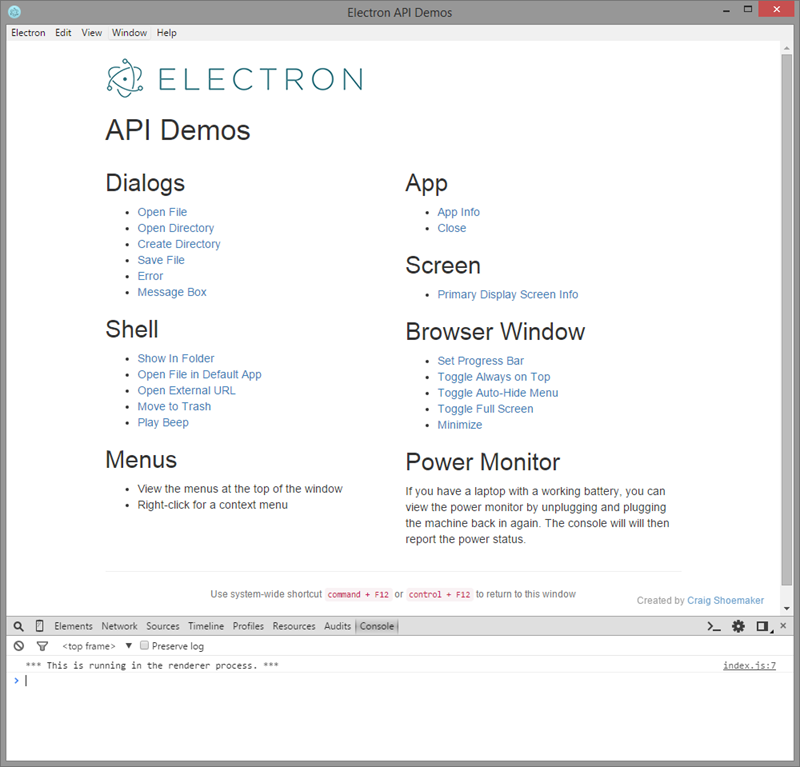
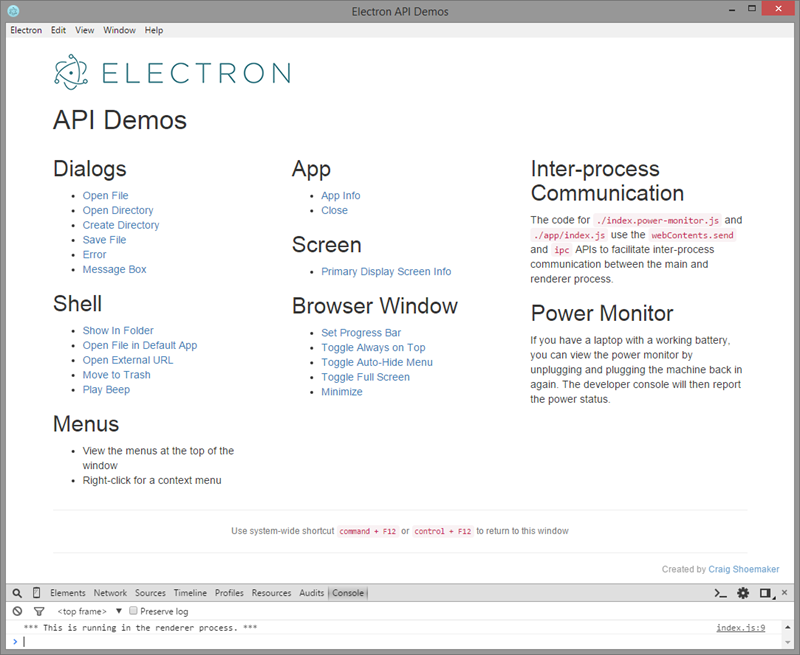
update index and screenshot

diff --git a/app/index.html b/app/index.html
@@ -15,7 +15,7 @@
             <h1>API Demos</h1>
             
             <div class="row">
-                <div class="col-sm-6">
+                <div class="col-sm-4">
                     <h2>Dialogs</h2>
                     <ul>
                         <li><a href="javascript:void(0);" id="open-file-button">Open File</a></li>
@@ -41,7 +41,7 @@
                         <li>Right-click for a context menu</li>
                     </ul>
                 </div>
-                <div class="col-sm-6">
+                <div class="col-sm-4">
                     <h2>App</h2>
                     <ul>
                         <li><a href="javascript:void(0);" id="app-info-button">App Info</a></li>
@@ -61,6 +61,14 @@
                         <li><a href="javascript:void(0);" id="full-screen-button">Toggle Full Screen</a></li>
                         <li><a href="javascript:void(0);" id="minimize-button">Minimize</a></li>
                     </ul>
+                    
+                    
+                </div>
+                <div class="col-sm-4">
+                    <h2>Inter-process Communication</h2>
+                    <p>The code for <code>./index.power-monitor.js</code> and <code>./app/index.js</code> use 
+                    the <code>webContents.send</code> and <code>ipc</code> APIs to facilitate inter-process
+                    communication between the main and renderer process.</p>
                     
                     <h2>Power Monitor</h2>
                     <p>If you have a laptop with a working battery, you can view the power monitor
